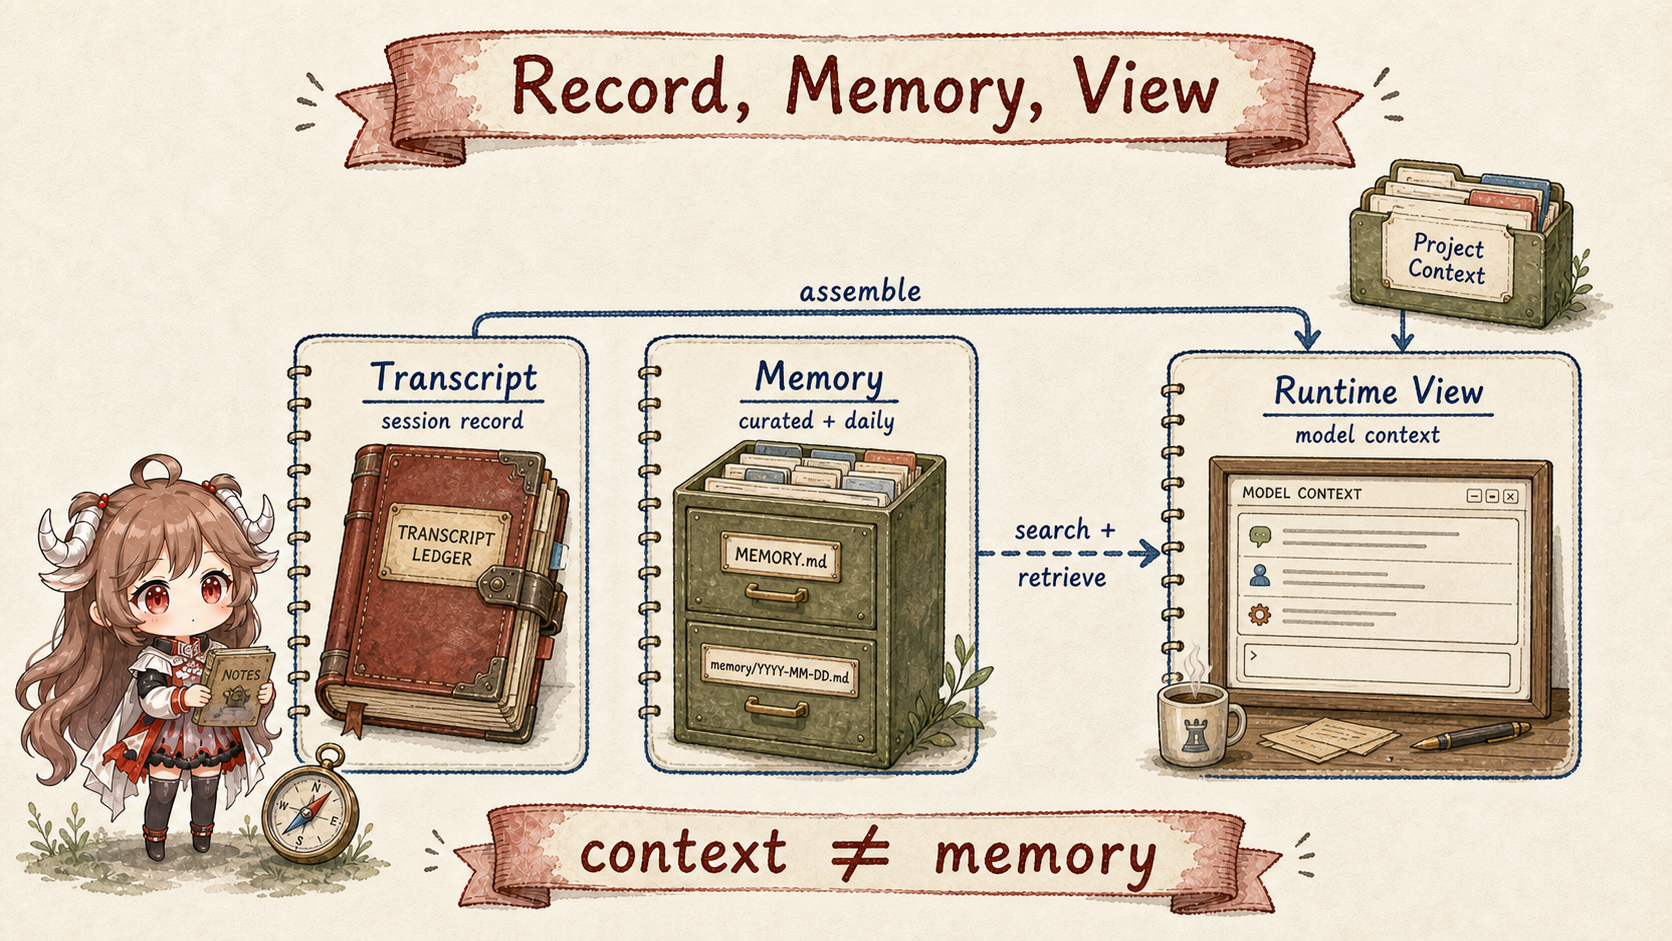
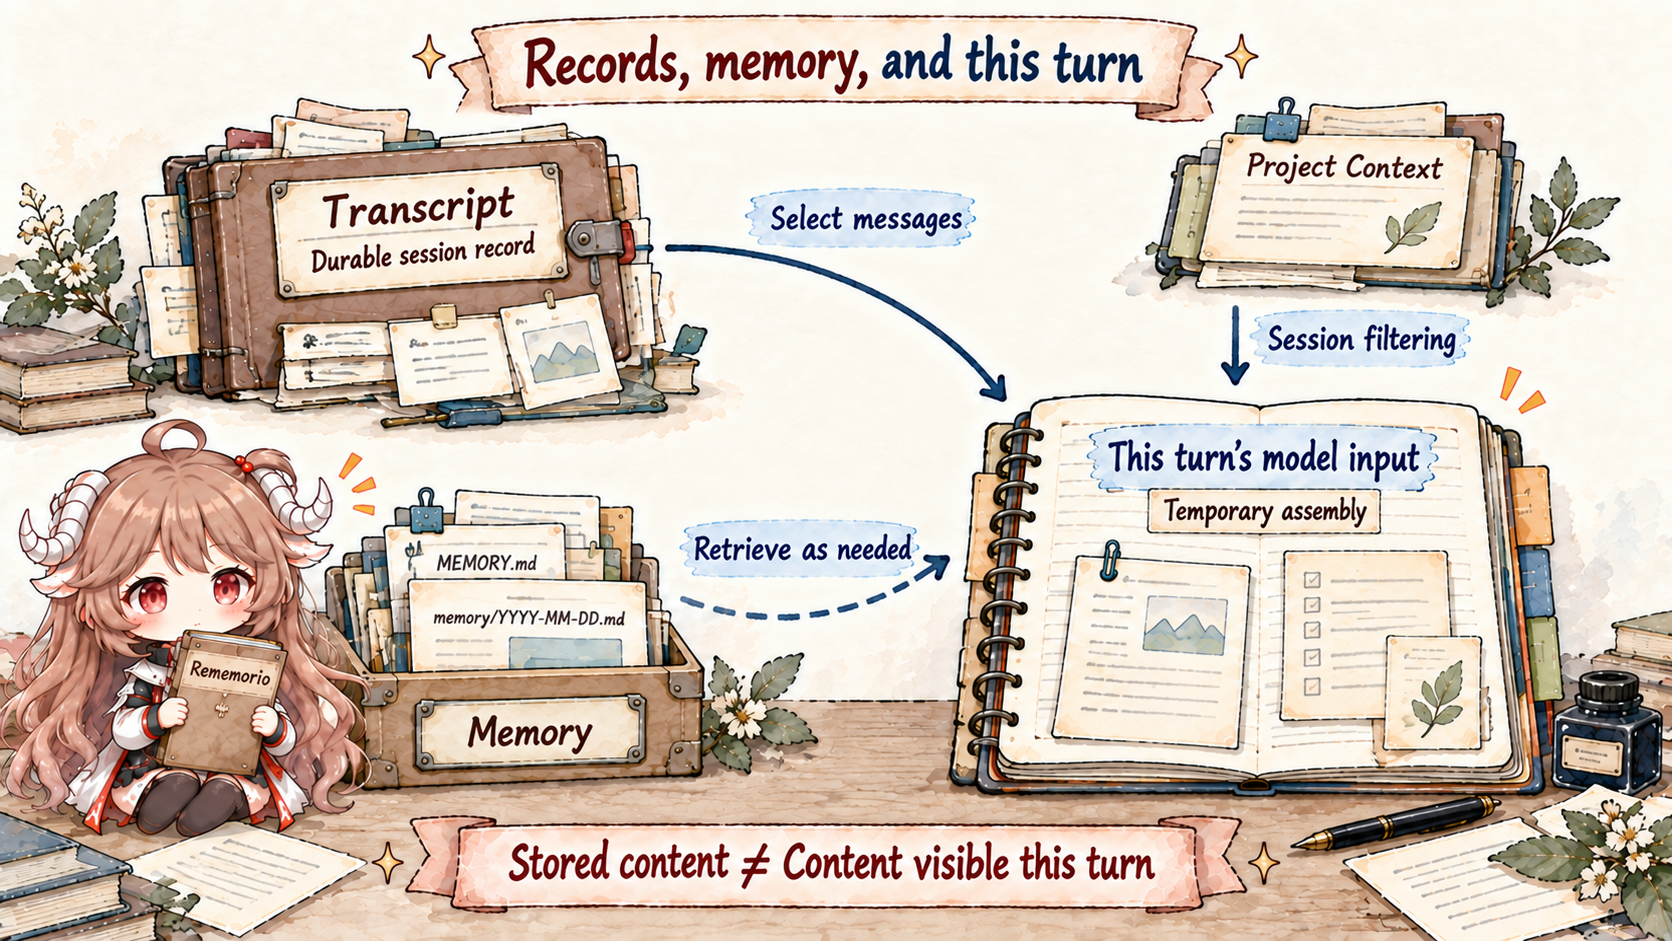
Restyle OpenClaw context state ownership figure

diff --git a/openclaw/en/context-memory/index.html b/openclaw/en/context-memory/index.html
@@ -81,7 +81,7 @@ transcript != model context</code></pre>
       <p>This contract transfers to any “external memory plus agent” architecture. Relevance is only the read path. Idempotent commit, repeatable assembly, and a precise visibility boundary for the current turn determine whether the state can be trusted.</p>
 
       <h3>2.3 Transcript, memory, and model input store different information</h3>
-      <figure class="hero-image"><img src="../assets/context-state-owners.png" alt="Three OpenClaw state owners: Transcript is the durable session record, Memory contains MEMORY.md and daily memory files and is retrieved selectively, and Runtime View is temporary model context; Project Context enters separately, so context is not memory" /></figure>
+      <figure class="hero-image"><img src="../assets/context-state-owners.png" alt="Transcript stores durable session records; Memory is retrieved as needed; session-filtered Project Context joins the temporary model input for this turn. Stored content differs from content visible this turn." /><figcaption>The figure distinguishes durable sources from temporary input, without implying automatic writes between them. The dashed line shows retrieval on demand; permitted sessions may also load root MEMORY.md through Project Context, under the filters in 1.3.</figcaption></figure>
       <p>The transcript records the messages, tool calls, and results that actually occurred under one sessionId. It is the causal ledger. Memory holds selected facts and decisions meant for longer reuse. Runtime View is the temporary message sequence produced by assembly for one run; the view itself does not need to become a new source of truth after the request.</p>
       <p><code>MEMORY.md</code> contains curated long-term memory, while <code>memory/YYYY-MM-DD.md</code> contains daily notes. A private main session can use long-term memory as trusted context or a retrieval source. Group and other sessions must not receive the same private profile unconditionally. Retrieval is a selective bridge with an authorization boundary, not “concatenate all memory files into the prompt.”</p>
       <p>Cross-session recall follows the same rule. It may retrieve fragments from other authorized transcripts, but it does not merge session keys or change the owner of either transcript. Otherwise “remember a relevant fact” would silently become “inherit another session's entire authority.”</p>
@@ -123,7 +123,7 @@ Original history: still readable from session storage</code></pre>
       <h2>4. How to diagnose why the agent forgot</h2>
       <h3>4.1 Inspect the built request instead of guessing from the chat page</h3>
       <p><code>/context list</code> shows major contributors, <code>/context detail</code> expands the largest system-prompt and tool-schema entries, and <code>/context map</code> gives a distribution-oriented view. Reports prefer the system prompt captured from the last real embedded run; only when no run report exists do they estimate one on demand.</p>
-      <p>A reliable diagnostic order is: verify route and sessionId, confirm that the raw fact exists in the transcript, inspect Project Context truncation, check memory write and retrieval, then examine pruning, compaction, and tool-schema share. That sequence prevents every apparent memory issue from becoming an indiscriminate window increase.</p>
+      <p>A reliable diagnostic order is: verify route, sessionId, and lifecycleRevision, confirm that the raw fact exists in the transcript, inspect Project Context truncation, check memory write and retrieval, then examine pruning, compaction, and tool-schema share. That sequence prevents every apparent memory issue from becoming an indiscriminate window increase.</p>
       <pre><code class="language-text">/context list
 /context detail
 /context map
@@ -132,7 +132,7 @@ Original history: still readable from session storage</code></pre>
 
       <h3>4.2 Five kinds of forgetting point to five checks</h3>
       <div class="table-wrap"><table><thead><tr><th>Symptom</th><th>Likely owner</th><th>Correct move</th></tr></thead><tbody>
-        <tr><td>The same chat suddenly behaves like a new one.</td><td>Route / sessionId</td><td>Inspect reset, daily/idle rollover, and key before touching memory.</td></tr>
+        <tr><td>The same chat suddenly behaves like a new one.</td><td>Route / lifecycleRevision / sessionId</td><td>Inspect the key and <a href="https://github.com/openclaw/openclaw/blob/e6b42643e7aae229d115477596b33c36c38f7101/src/auto-reply/reply/session.ts#L866-L873">reset boundary</a>: ordinary durable sessions keep sessionId, advance lifecycleRevision, and append a boundary. A stable sessionId alone does not prove context continuity.</td></tr>
         <tr><td>The latter half of an instruction file has no effect.</td><td>Project Context</td><td>Check bootstrap caps and truncation; shorten stable rules.</td></tr>
         <tr><td>A tool result remains on disk but is invisible to the model.</td><td>Runtime View</td><td>Inspect pruning and assembly; do not assume transcript loss.</td></tr>
         <tr><td>An old decision disappeared into a generic summary.</td><td>Compaction</td><td>Improve focus and summary quality; write durable decisions earlier.</td></tr>

diff --git a/openclaw/zh/context-memory/index.html b/openclaw/zh/context-memory/index.html
@@ -81,7 +81,7 @@ transcript != model context</code></pre>
       <p>这条合同值得迁移到所有“外部记忆 + Agent”系统：检索相关性只是读路径；幂等提交、可重复组装和当前 turn 的可见边界才决定状态能不能相信。</p>
 
       <h3>2.3 Transcript、Memory 与本轮模型输入分别保存不同内容</h3>
-      <figure class="hero-image"><img src="../assets/context-state-owners.png" alt="OpenClaw 三种状态 owner：Transcript 是持久 session record，Memory 由 MEMORY.md 与每日 memory 文件组成并按需检索，Runtime View 是本轮临时 model context；Project Context 单独注入，context 不等于 memory" /></figure>
+      <figure class="hero-image"><img src="../assets/context-state-owners.png" alt="Transcript 保存持久会话记录，Memory 按需检索，Project Context 经会话过滤后进入临时组装的本轮模型输入；保存内容不等于本轮可见内容" /><figcaption>图示区分持久来源与临时输入，不表示自动互写。虚线只画按需检索；允许的会话也可通过 Project Context 加载根 MEMORY.md，具体过滤见 1.3。</figcaption></figure>
       <p>Transcript 按顺序记录某个 sessionId 里真实发生的消息、tool call 与 result。Memory 保存经过筛选、希望长期复用的事实与决定。本轮模型输入则是 <code>assemble</code> 临时选出的消息序列；请求结束后，这份临时序列不需要再次写成历史。</p>
       <p><code>MEMORY.md</code> 用于 curated long-term memory，<code>memory/YYYY-MM-DD.md</code> 用于每日记录。main private session 可以把长期 memory 作为受信上下文或检索来源；群组与其他 session 不应无条件拿到同一份私人画像。memory retrieval 是一次有权限边界的选择性桥接，不是“把所有记忆文件 concat 进 prompt”。</p>
       <p>上一章提到的跨会话 recall 也遵循同样边界：它可以从其他获准 transcript 中检索片段，但不会合并 session key，不会改变原 transcript owner。否则“记得相关事实”就会意外变成“继承另一个会话的全部权限”。</p>
@@ -123,7 +123,7 @@ transcript != model context</code></pre>
       <h2>四、怎样确认 Agent 为什么“忘记”</h2>
       <h3>4.1 用报告检查实际请求，而不是猜聊天页</h3>
       <p><code>/context list</code> 先看总贡献，<code>/context detail</code> 展开最大的 system prompt 与 tool schema，<code>/context map</code> 用更直观的分布观察预算。报告优先使用上一次 embedded run 真正捕获的 system prompt；没有 run report 时才现场估算。</p>
-      <p>排查顺序可以固定为：先确认 route/sessionId 是否正确，再确认 transcript 是否有原始事实，再看 Project Context 是否截断、memory 是否写入/检索，最后看 pruning/compaction 与工具 schema 占比。这样不会一见“忘记”就盲目扩大窗口。</p>
+      <p>排查顺序可以固定为：先确认 route、sessionId 与 lifecycleRevision 是否正确，再确认 transcript 是否有原始事实，再看 Project Context 是否截断、memory 是否写入/检索，最后看 pruning/compaction 与工具 schema 占比。这样不会一见“忘记”就盲目扩大窗口。</p>
       <pre><code class="language-text">/context list
 /context detail
 /context map
@@ -132,7 +132,7 @@ transcript != model context</code></pre>
 
       <h3>4.2 五种“忘记”对应五个检查位置</h3>
       <div class="table-wrap"><table><thead><tr><th>症状</th><th>可能 owner</th><th>正确动作</th></tr></thead><tbody>
-        <tr><td>同一聊天突然像新会话</td><td>route / sessionId</td><td>检查 reset、daily/idle rollover 和 key，而不是先改 memory。</td></tr>
+        <tr><td>同一聊天突然像新会话</td><td>route / lifecycleRevision / sessionId</td><td>检查 key 与 <a href="https://github.com/openclaw/openclaw/blob/e6b42643e7aae229d115477596b33c36c38f7101/src/auto-reply/reply/session.ts#L866-L873">reset 边界</a>：普通持久会话保留 sessionId，推进 lifecycleRevision 并追加边界；不要仅凭 sessionId 判断上下文是否延续。</td></tr>
         <tr><td>规则文件后半段不生效</td><td>Project Context</td><td>检查 bootstrap cap、截断标记，拆短稳定规则。</td></tr>
         <tr><td>工具输出仍在磁盘但模型看不到</td><td>Runtime View</td><td>检查 pruning 和当前 assembly；不要认定 transcript 丢失。</td></tr>
         <tr><td>旧决定被摘要概括掉</td><td>Compaction</td><td>改进 focus/summary 质量，并把耐久决定提前写入 memory。</td></tr>
